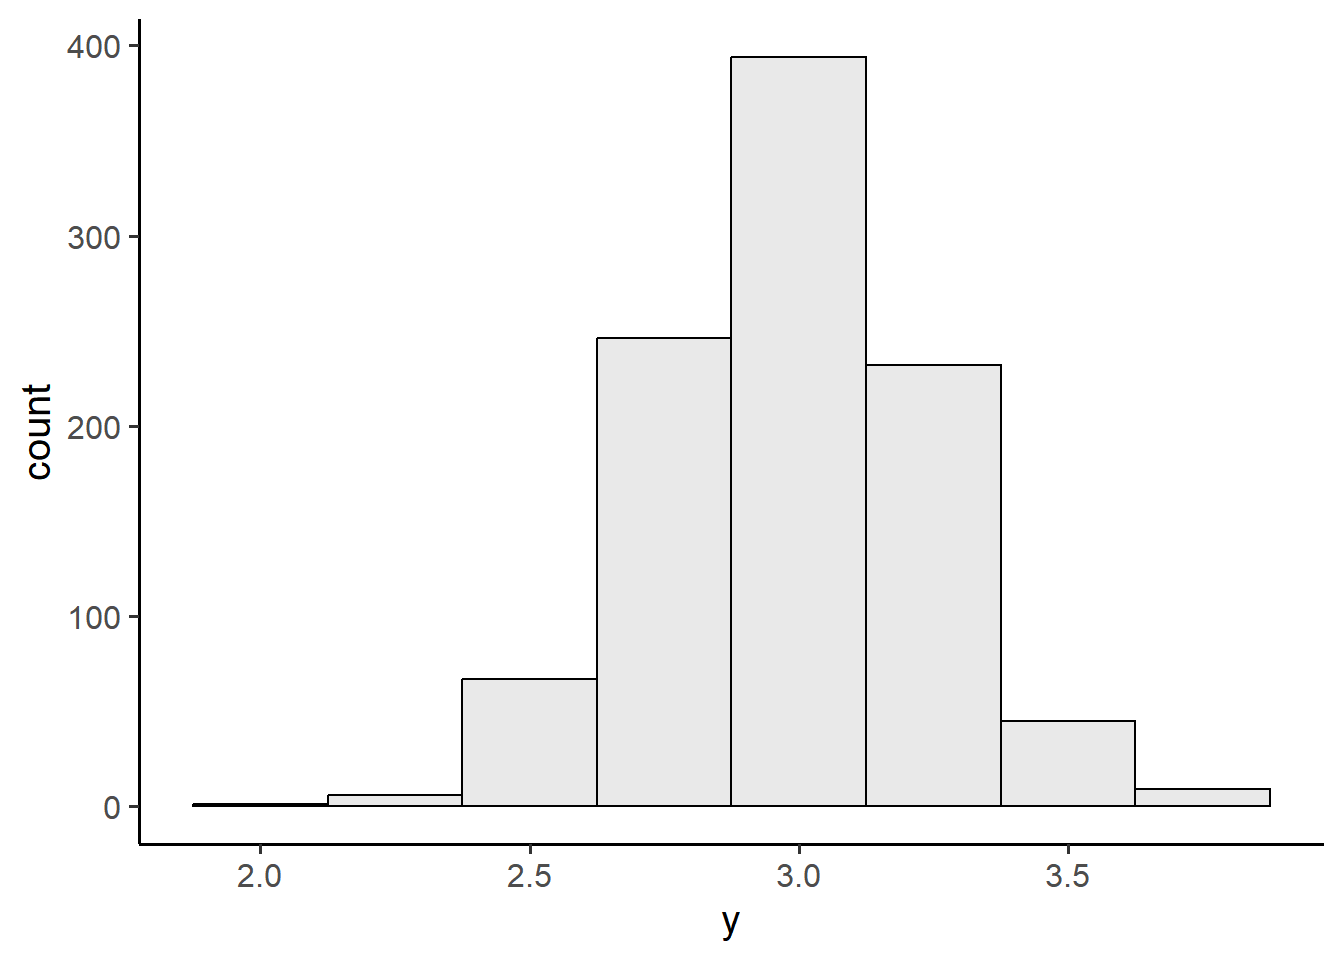
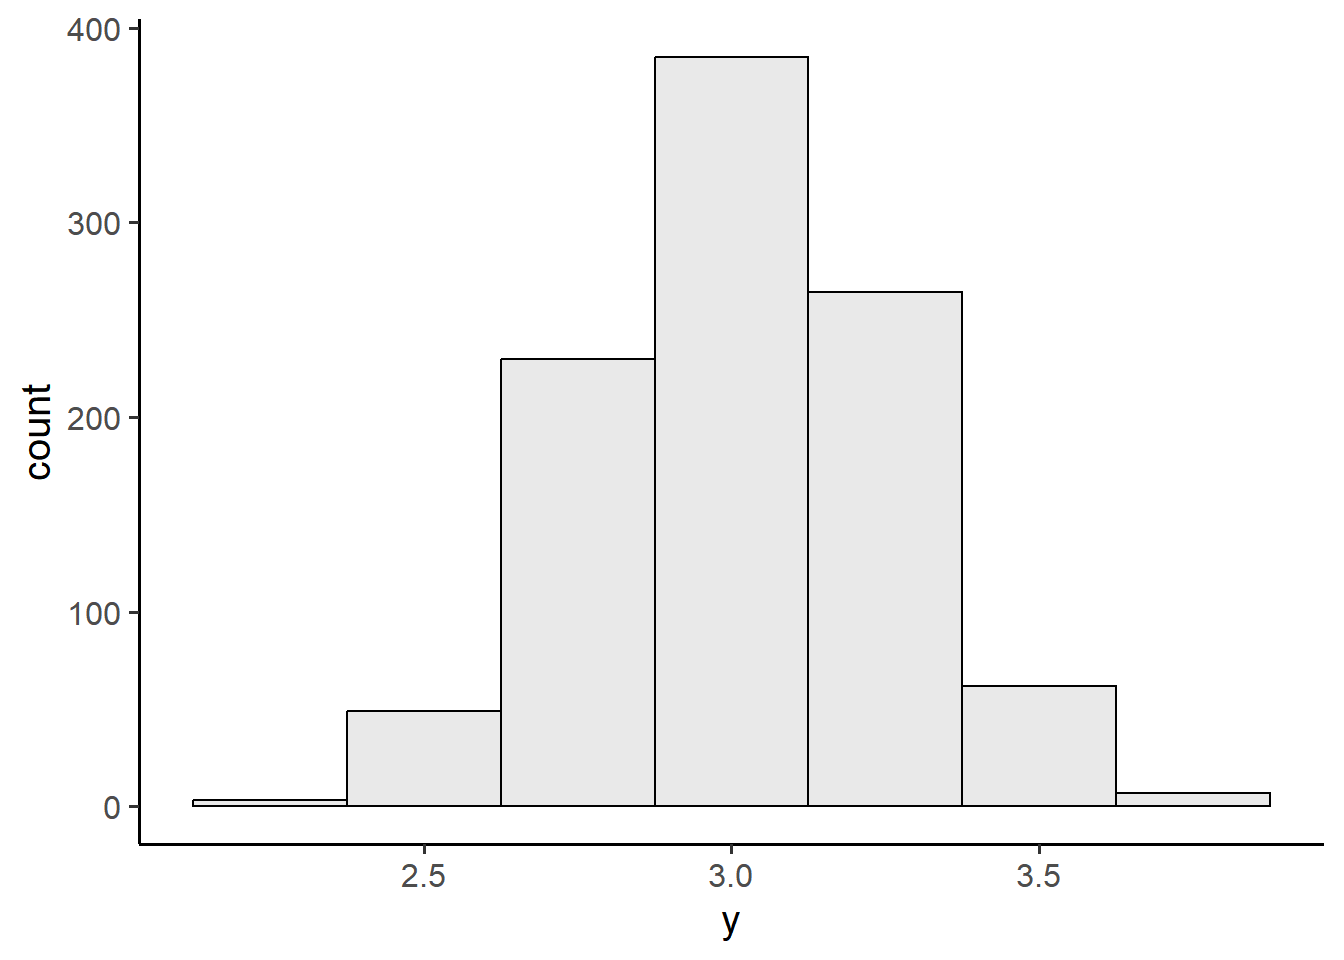
suppress per doc

diff --git a/docs/drafts.html b/docs/drafts.html
@@ -267,7 +267,7 @@ Author
 <span class="listing-author">Katie Schuler</span>
 </td>
 </tr>
-<tr data-index="1" data-listing-date-sort="1693454400000" data-listing-file-modified-sort="1693278496907" data-listing-date-modified-sort="NaN" data-listing-reading-time-sort="11" data-listing-title-sort="R Basics" data-listing-filename-sort="r-basics-webr.qmd">
+<tr data-index="1" data-listing-date-sort="1693454400000" data-listing-file-modified-sort="1693278761351" data-listing-date-modified-sort="NaN" data-listing-reading-time-sort="11" data-listing-title-sort="R Basics" data-listing-filename-sort="r-basics-webr.qmd">
 <td>
 <span class="listing-date">Aug 31, 2023</span>
 </td>

diff --git a/docs/notes/probability-distributions.html b/docs/notes/probability-distributions.html
@@ -406,11 +406,11 @@ Under Construction
 <tbody>
 <tr class="odd">
 <td style="text-align: right;">1000</td>
-<td style="text-align: right;">2.989314</td>
-<td style="text-align: right;">2.994967</td>
-<td style="text-align: right;">0.2497311</td>
-<td style="text-align: right;">2.825117</td>
-<td style="text-align: right;">3.153194</td>
+<td style="text-align: right;">3.014589</td>
+<td style="text-align: right;">3.021092</td>
+<td style="text-align: right;">0.2437494</td>
+<td style="text-align: right;">2.851744</td>
+<td style="text-align: right;">3.183154</td>
 </tr>
 </tbody>
 </table>

diff --git a/docs/notes/r-basics-webr.html b/docs/notes/r-basics-webr.html
@@ -127,7 +127,7 @@ pre > code.sourceCode > span > a:first-child::before { text-decoration: underlin
   var setupRPackages = !(installRPackagesList.indexOf("") !== -1);
 
   // Display a startup message?
-  var showStartupMessage = true;
+  var showStartupMessage = false;
   var showHeaderMessage = false;
   if (showStartupMessage) {
 
